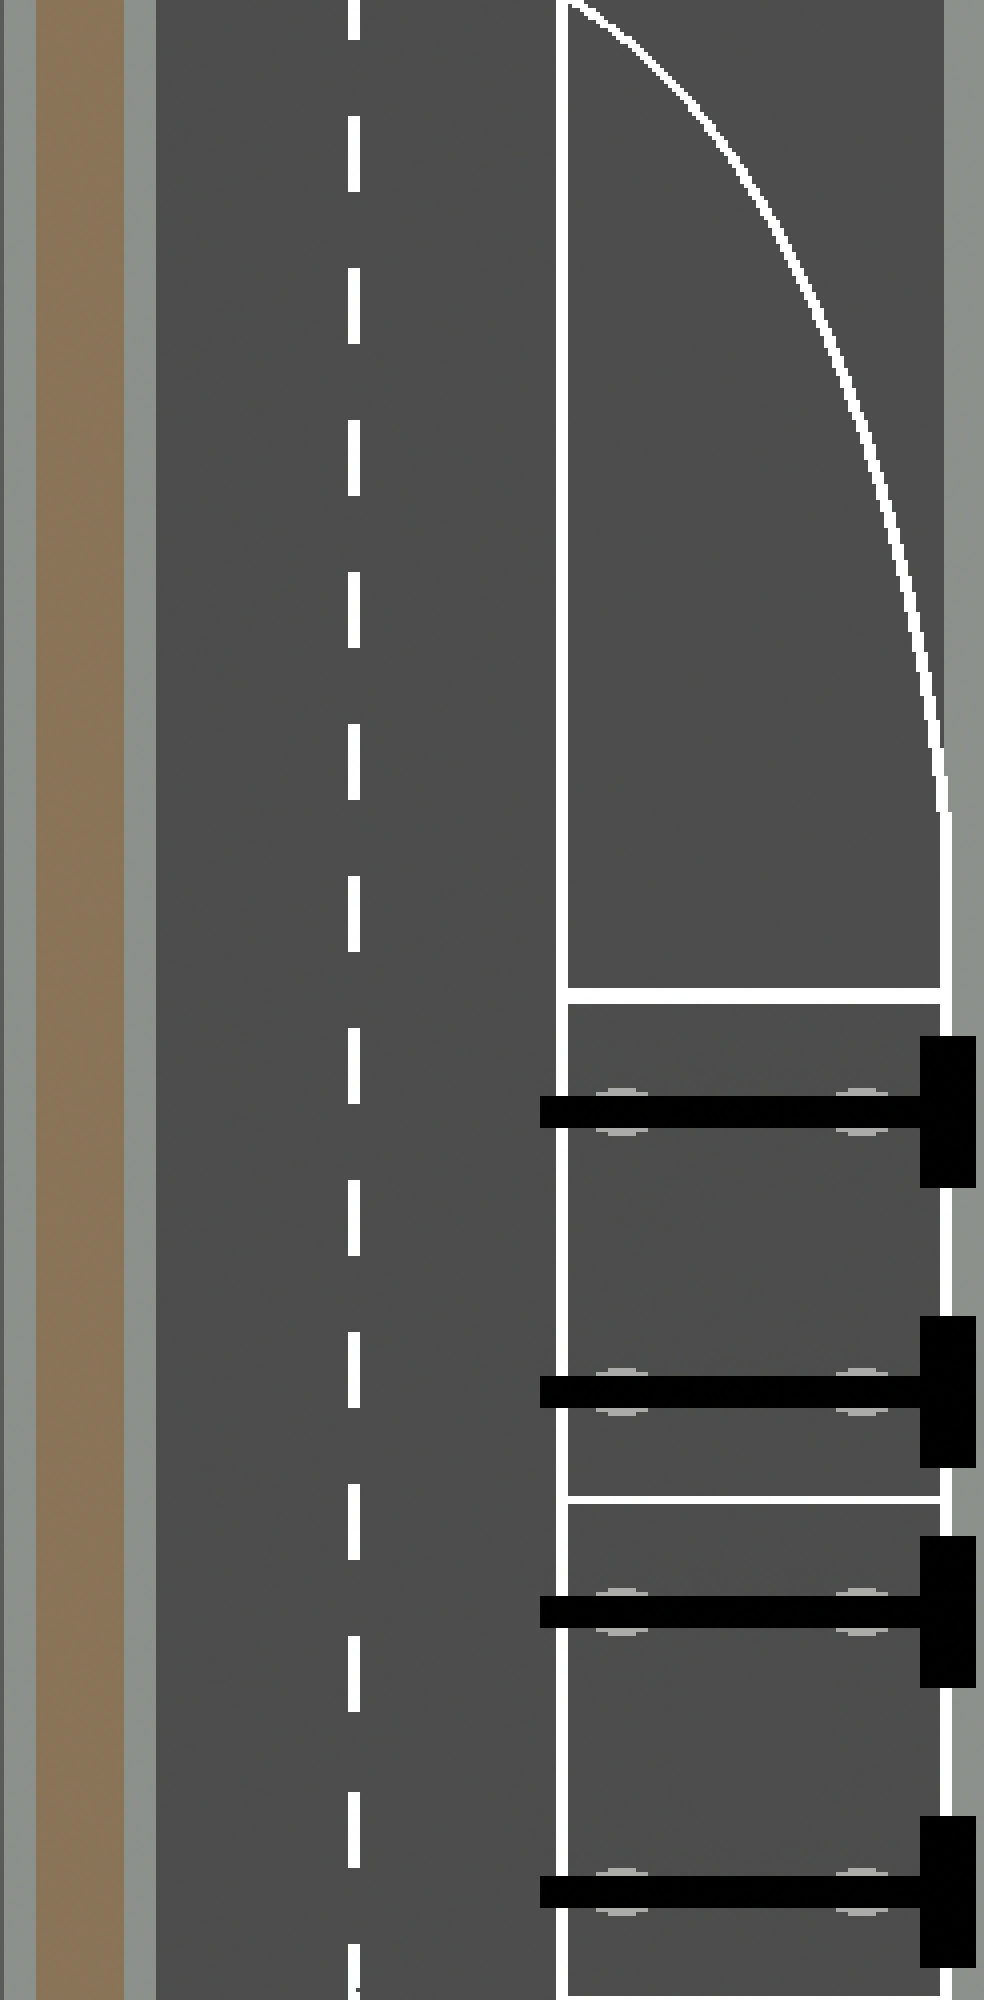
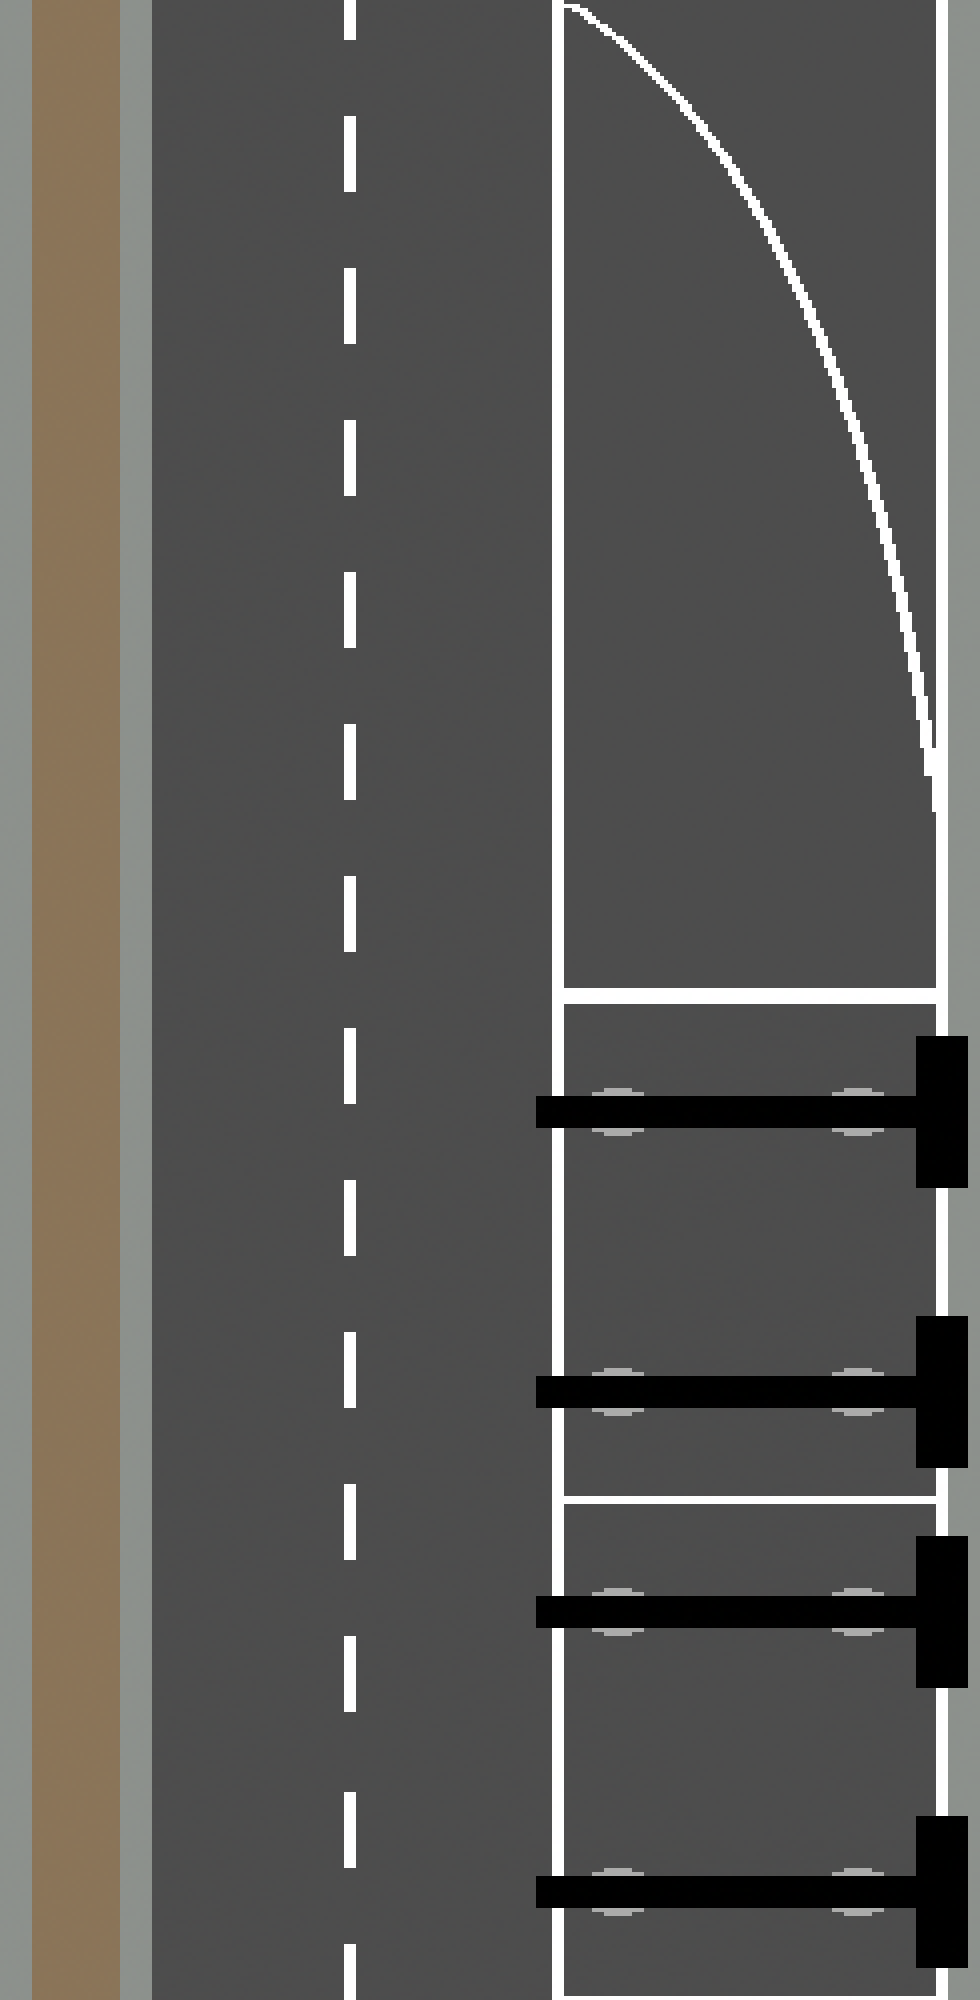
V4

diff --git a/f1.py b/f1.py
@@ -2,6 +2,29 @@ import pygame
 from sys import exit
 import math as m
 
+#Speed = acc + 25m/s
+def acceleration(x_increment, y_increment, tires, team, fw, rw, deg):
+    acc = list((0, 0))
+    if (x_increment != 0):
+        acc[0] = x_increment * ((5*(fw + rw)) + deg + (10 * tires) + team) / 500
+    if (y_increment > 0):
+        acc[1] = y_increment * ((5*(fw + rw)) + deg + (10 * tires) + team) / 500
+    if (y_increment < 0):
+        acc[1] = y_increment * ((5*(fw + rw)) + deg + (10 * tires) + team) / 100
+    return acc
+    #Probably we will have to return acceleration on the y-axis and on the x-axis
+def reverse(y_increment, aum_y, tires, team, fw, rw, deg):
+    if y_increment >= -7:
+        return aum_y * ((5*(fw + rw)) + deg + (10 * tires) + team) / 100
+    else:
+        return 0
+
+tire = 10
+team = 100
+fw = 10
+rw = 10
+deg = 100
+
 pygame.init()
 screen = pygame.display.set_mode((600, 500))
 pygame.display.set_caption("Retrochimba")
@@ -25,16 +48,24 @@ R_S_grid = S_grid.get_rect(midbottom = (R_S_start.midtop))
 S_finish_line = pygame.image.load("images/i-S-finish-line.png").convert_alpha()
 S_finish_line = pygame.transform.scale(S_finish_line, size_S)
 R_S_finish_line = S_finish_line.get_rect(midbottom = (R_S_grid.midtop))
-S_end = pygame.image.load("images/i-S.png").convert_alpha()
-S_end = pygame.transform.scale(S_end, size_S)
-R_S_end = S_end.get_rect(midbottom = (R_S_finish_line.midtop))
+R_S_base2 = S_start.get_rect(midbottom = (R_S_finish_line.midtop))
+R_S_base3 = S_start.get_rect(midbottom = (R_S_base2.midtop))
+R_S_base4 = S_start.get_rect(midbottom = (R_S_base3.midtop))
+R_S_base5 = S_start.get_rect(midbottom = (R_S_base4.midtop))
+R_S_base6 = S_start.get_rect(midbottom = (R_S_base5.midtop))
+S_t1 = pygame.image.load("images/i-S-T1.png").convert()
+R_S_t1 = S_t1.get_rect(bottomleft  = (188, -3500))
 
 S_barriers_L = pygame.image.load("images/i-S-Lbarrier.png").convert_alpha()
 S_barriers_L = pygame.transform.scale(S_barriers_L, size_S_L)
-R_S_barriers_L1 = S_barriers_L.get_rect(midright = (188, 250)) # Problem: images are not loading and they are "waving". Look at the tutorial because that did not happen there
+R_S_barriers_L1 = S_barriers_L.get_rect(midright = (188, 250))
 R_S_barriers_L2 = S_barriers_L.get_rect(midright = (188, -250))
 R_S_barriers_L3 = S_barriers_L.get_rect(midright = (188, -750))
 R_S_barriers_L4 = S_barriers_L.get_rect(midright = (188, -1250))
+R_S_barriers_L5 = S_barriers_L.get_rect(midright = (188, -1750))
+R_S_barriers_L6 = S_barriers_L.get_rect(midright = (188, -2250))
+R_S_barriers_L7 = S_barriers_L.get_rect(midright = (188, -2750))
+R_S_barriers_L8 = S_barriers_L.get_rect(midright = (188, -3250))
 
 S_pits = pygame.image.load("images/i-S-pits-NOlogos.png").convert_alpha()
 S_pits = pygame.transform.scale(S_pits, size_S_R)
@@ -42,10 +73,15 @@ R_S_pits1 = S_pits.get_rect(midleft = (413, 250))
 S_pits_logos = pygame.image.load("images/i-S-pits-logos.png").convert_alpha()
 S_pits_logos = pygame.transform.scale(S_pits_logos, size_S_R)
 R_S_pits_logos = S_pits_logos.get_rect(midleft = (413, -250))
-R_S_pits2 = S_pits.get_rect(midleft = (413, -750))
-S_pits_exit = pygame.image.load("images/i-S-pits-exit.png").convert_alpha() #Cambiar por salida de pits
+R_S_pits_logos2 = S_pits_logos.get_rect(midleft = (413, -750))
+R_S_pits2 = S_pits.get_rect(midleft = (413, -1250))
+R_S_pits3 = S_pits.get_rect(midleft = (413, -1750))
+R_S_pits4 = S_pits.get_rect(midleft = (413, -2250))
+R_S_pits5 = S_pits.get_rect(midleft = (413, -2750))
+S_pits_exit = pygame.image.load("images/i-S-pits-exit.png").convert_alpha()
 S_pits_exit = pygame.transform.scale(S_pits_exit, size_S_R)
-R_S_pits_exit = S_pits.get_rect(midleft = (413, -1250))
+R_S_pits_exit = S_pits.get_rect(midleft = (413, -3250))
+
 
 #CAR AND OTHERS
 car = pygame.image.load("images/f1-mclaren.png").convert_alpha()
@@ -58,77 +94,173 @@ Time = Minfont.render("1:25.000", False, "Black") #Boolean for capital letters
 car_pos_y_increment = float(0)
 car_pos_x_increment = 0
 game_active = True
+angle_T1 = 0
 
 while True:
     for event in pygame.event.get():
         if event.type == pygame.QUIT:
             pygame.quit()
             exit()
-        # if (event.type == pygame.KEYDOWN):    
-        #     if ((event.key == pygame.K_w) or (event.key == pygame.K_UP)):
-        #         car_pos_y_increment = 1
-        #     if ((event.key == pygame.K_s) or (event.key == pygame.K_DOWN)) and (car_pos_y_increment > 0):
-        #         car_pos_y_increment -= 0.25
-        # if (event.type != pygame.KEYDOWN) and (car_pos_y_increment > 0):
-        #         car_pos_y_increment -= 0.25
     screen.fill((0, 0, 0))
 
     if game_active == True:
         keys = pygame.key.get_pressed() #Get all the keys getting pressed in every frame
-        car_pos_x_increment = 0
         if keys[pygame.K_UP]:
-            car_pos_y_increment += 0.10 #Replace for function of acceleration
-        elif (car_pos_y_increment > 0):
-            car_pos_y_increment -= 0.05
             if keys[pygame.K_LEFT]:
-                car_pos_x_increment -= 1
+                aum_x, aum_y = acceleration(-0.10, 0.25, tire, team, fw, rw, deg)
+                car_pos_y_increment += aum_y
+                car_pos_x_increment += aum_x
             elif keys[pygame.K_RIGHT]:
-                car_pos_x_increment += 1 
+                aum_x, aum_y = acceleration(0.10, 0.25, tire, team, fw, rw, deg)
+                car_pos_y_increment += aum_y
+                car_pos_x_increment += aum_x 
             else:
                 car_pos_x_increment = 0
+                car_pos_y_increment += acceleration(0, 0.25, tire, team, fw, rw, deg)[1] 
+        elif keys[pygame.K_DOWN] and (car_pos_y_increment >= 0):
+            if keys[pygame.K_LEFT]:
+                aum_x, aum_y = acceleration(-0.15, -0.10, tire, team, fw, rw, deg)
+                car_pos_x_increment += aum_x
+                car_pos_y_increment += aum_y
+            if keys[pygame.K_RIGHT]:
+                aum_x, aum_y = acceleration(0.15, -0.10, tire, team, fw, rw, deg)
+                car_pos_x_increment += aum_x
+                car_pos_y_increment += aum_y
+            else:
+                car_pos_x_increment = 0
+                car_pos_y_increment += acceleration(0, -0.15, tire, team, fw, rw, deg)[1]
+        elif car_pos_y_increment > 0:
+            if keys[pygame.K_LEFT]:
+                aum_x, aum_y = acceleration (-0.15, -0.025, tire, team, fw, rw, deg)
+                car_pos_x_increment += aum_x
+                car_pos_y_increment += aum_y
+            elif keys[pygame.K_RIGHT]:
+                aum_x, aum_y = acceleration (0.15, -0.025, tire, team, fw, rw, deg)
+                car_pos_x_increment += aum_x
+                car_pos_y_increment += aum_y
+            else:
+                car_pos_x_increment = 0
+                car_pos_y_increment += (0, -0.025, tire, team, fw, rw, deg)[1]
+        elif car_pos_y_increment < 0:
+            if keys[pygame.K_DOWN] and keys[pygame.K_r]:
+                car_pos_y_increment += reverse(car_pos_y_increment, -0.10, tire, team, fw, rw, deg)
+                if keys[pygame.K_LEFT]:
+                    aum_x= acceleration (-0.15, 0, tire, team, fw, rw, deg)[0]
+                    car_pos_x_increment += aum_x
+                elif keys[pygame.K_RIGHT]:
+                    aum_x= acceleration (0.15, 0, tire, team, fw, rw, deg)[0]
+                    car_pos_x_increment += aum_x
+            elif car_pos_y_increment >= 0.5 or car_pos_y_increment <= -0.5:
+                if keys[pygame.K_LEFT]:
+                    aum_x= acceleration (-0.15, 0, tire, team, fw, rw, deg)[0]
+                    car_pos_x_increment += aum_x
+                elif keys[pygame.K_RIGHT]:
+                    aum_x= acceleration (0.15, 0, tire, team, fw, rw, deg)[0]
+                    car_pos_x_increment += aum_x
+                else:
+                    car_pos_x_increment = 0
+                car_pos_y_increment += (0, 0.025, tire, team, fw, rw, deg)[1]
+            else:
+              car_pos_x_increment = 0  
+        else:
+            car_pos_x_increment = 0
 
-        if R_car.y < 100:
-            game_active = False
+        #T1
+        if R_S_t1.bottom - 500 >= 0:
+            angle_T1 = (m.atan((R_S_t1.y + 4700)/(1388 + R_S_t1.x))) * 180 / m.pi
+            pygame.transform.rotate(S_t1, angle_T1)
 
-        print(R_S_start.top - R_S_grid.bottom, car_pos_y_increment)
+        print(car_pos_x_increment, car_pos_y_increment, R_S_t1.bottom - 500, angle_T1)
 
         #SHOW BACKGROUND
         R_S_start.x -= int(car_pos_x_increment)
         R_S_barriers_L1.x -= int(car_pos_x_increment)
         R_S_pits1.x -= int(car_pos_x_increment)
-        R_S_grid.x -= int(car_pos_x_increment)
+
+        R_S_base2.x -= int(car_pos_x_increment)
         R_S_barriers_L2.x -= int(car_pos_x_increment)
+        R_S_pits2.x -= int(car_pos_x_increment)
+        R_S_grid.x -= int(car_pos_x_increment)
+        R_S_barriers_L3.x -= int(car_pos_x_increment)
         R_S_pits_logos.x -= int(car_pos_x_increment)
         R_S_finish_line.x -= int(car_pos_x_increment)
-        R_S_barriers_L3.x -= int(car_pos_x_increment)
-        R_S_pits2.x -= int(car_pos_x_increment)
-        R_S_end.x -= int(car_pos_x_increment)
         R_S_barriers_L4.x -= int(car_pos_x_increment)
+        R_S_pits_logos2.x -= int(car_pos_x_increment)
+        R_S_base3.x -= int(car_pos_x_increment)
+        R_S_barriers_L5.x -= int(car_pos_x_increment)
+        R_S_pits3.x -= int(car_pos_x_increment)
+        R_S_base4.x -= int(car_pos_x_increment)
+        R_S_barriers_L6.x -= int(car_pos_x_increment)
+        R_S_pits4.x -= int(car_pos_x_increment)
+        R_S_base5.x -= int(car_pos_x_increment)
+        R_S_barriers_L7.x -= int(car_pos_x_increment)
+        R_S_pits5.x -= int(car_pos_x_increment)
+        R_S_base6.x -= int(car_pos_x_increment)
+        R_S_barriers_L8.x -= int(car_pos_x_increment)
         R_S_pits_exit.x -= int(car_pos_x_increment)
+
+        R_S_t1.x += int (car_pos_x_increment)
+
+
         
         R_S_start.y += int(car_pos_y_increment)
         R_S_barriers_L1.y += int(car_pos_y_increment)
         R_S_pits1.y += int(car_pos_y_increment)
-        R_S_grid.y += int(car_pos_y_increment)
+
+        R_S_base2.y += int(car_pos_y_increment)
         R_S_barriers_L2.y += int(car_pos_y_increment)
+        R_S_pits2.y += int(car_pos_y_increment)
+        R_S_grid.y += int(car_pos_y_increment)
+        R_S_barriers_L3.y += int(car_pos_y_increment)
         R_S_pits_logos.y += int(car_pos_y_increment)
         R_S_finish_line.y += int(car_pos_y_increment)
-        R_S_barriers_L3.y += int(car_pos_y_increment)
-        R_S_pits2.y += int(car_pos_y_increment)
-        R_S_end.y += int(car_pos_y_increment)
         R_S_barriers_L4.y += int(car_pos_y_increment)
+        R_S_pits_logos2.y += int(car_pos_y_increment)
+        R_S_base3.y += int(car_pos_y_increment)
+        R_S_barriers_L5.y += int(car_pos_y_increment)
+        R_S_pits3.y += int(car_pos_y_increment)
+        R_S_base4.y += int(car_pos_y_increment)
+        R_S_barriers_L6.y += int(car_pos_y_increment)
+        R_S_pits4.y += int(car_pos_y_increment)
+        R_S_base5.y += int(car_pos_y_increment)
+        R_S_barriers_L7.y += int(car_pos_y_increment)
+        R_S_pits5.y += int(car_pos_y_increment)
+        R_S_base6.y += int(car_pos_y_increment)
+        R_S_barriers_L8.y += int(car_pos_y_increment)
         R_S_pits_exit.y += int(car_pos_y_increment)
+
+        R_S_t1.y += int (car_pos_y_increment)
+
 
         screen.blit(S_start, R_S_start)
         screen.blit(S_barriers_L, R_S_barriers_L1)        
         screen.blit(S_pits, R_S_pits1)
-        screen.blit(S_grid, R_S_grid)
+
+        screen.blit(S_start, R_S_base2)
         screen.blit(S_barriers_L, R_S_barriers_L2)
         screen.blit(S_pits_logos, R_S_pits_logos)
-        screen.blit(S_finish_line, R_S_finish_line)
+        screen.blit(S_grid, R_S_grid)
         screen.blit(S_barriers_L, R_S_barriers_L3)
+        screen.blit(S_pits_logos, R_S_pits_logos2)
+        screen.blit(S_finish_line, R_S_finish_line)
+        screen.blit(S_barriers_L, R_S_barriers_L4)
         screen.blit(S_pits, R_S_pits2)
-        screen.blit(S_end, R_S_end)
+        screen.blit(S_start, R_S_base3)
+        screen.blit(S_barriers_L, R_S_barriers_L5)
+        screen.blit(S_pits, R_S_pits3)
+        screen.blit(S_start, R_S_base4)
+        screen.blit(S_barriers_L, R_S_barriers_L6)
+        screen.blit(S_pits, R_S_pits4)
+        screen.blit(S_start, R_S_base5)
+        screen.blit(S_barriers_L, R_S_barriers_L7)
+        screen.blit(S_pits, R_S_pits5)
+        screen.blit(S_start, R_S_base6)
+        screen.blit(S_barriers_L, R_S_barriers_L8)
+        screen.blit(S_pits_exit, R_S_pits_exit)
+
+        screen.blit(S_t1, R_S_t1)
+
+        screen.blit(S_start, R_S_base2)
         screen.blit(S_barriers_L, R_S_barriers_L4)
         screen.blit(S_pits_exit, R_S_pits_exit)
 
